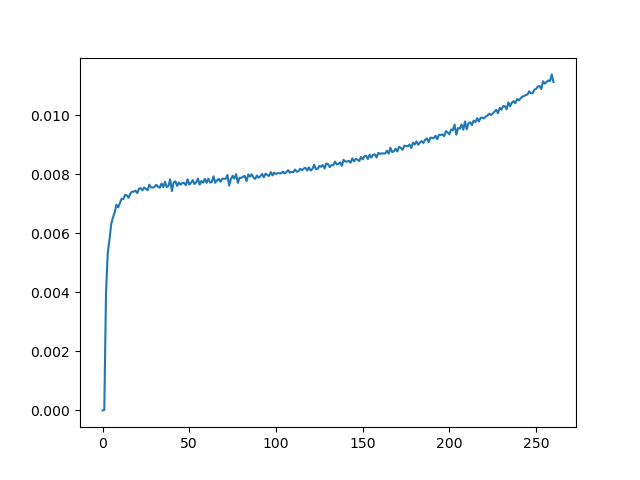
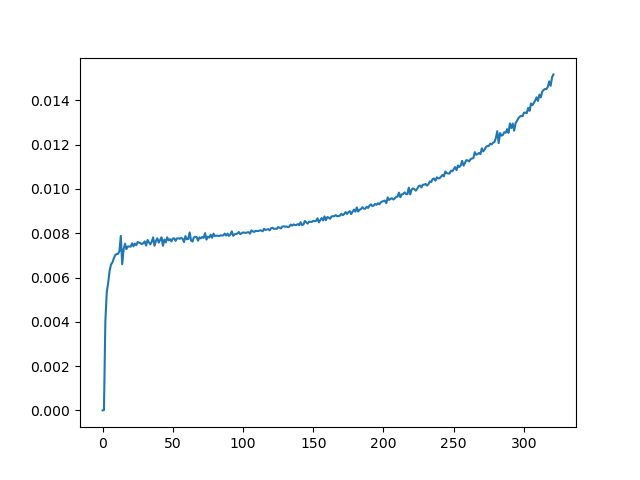
some

diff --git a/scripts/talker.py b/scripts/talker.py
@@ -101,7 +101,6 @@ def go_to_point(x_k, y_k, fi_k, x_ref, y_ref, v, dt):
 def talker():
     global dx_arr, dy_arr, fi_ref_arr, fi_ref_filtered_arr, fi_noise_arr, fi_noise_filtered_arr
 
-
     
     pub = rospy.Publisher('omega_chatter', Float64, queue_size=10)
     rospy.init_node('talker', anonymous=True)
@@ -136,6 +135,7 @@ def talker():
         x_k_noise  = x_k + np.random.normal(0, 0.003)
         y_k_noise  = y_k + np.random.normal(0, 0.003)
         fi_k_noise = fi_k + np.random.normal(0, 1.5*math.pi/180.0)
+        fi_noise_arr.append(fi_k_noise)
 
         #fi_k = fi_k_noise
 
@@ -184,3 +184,8 @@ if __name__ == '__main__':
 
     plt.plot(fi_ref_filtered_arr)
     plt.savefig('fi_ref_filtered.png')
+    plt.clf()
+
+    plt.plot(fi_noise_arr)
+    plt.savefig('fi_noise.png')
+    plt.clf()
